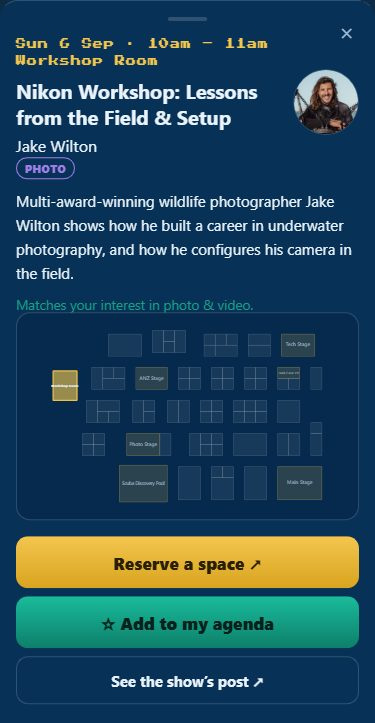
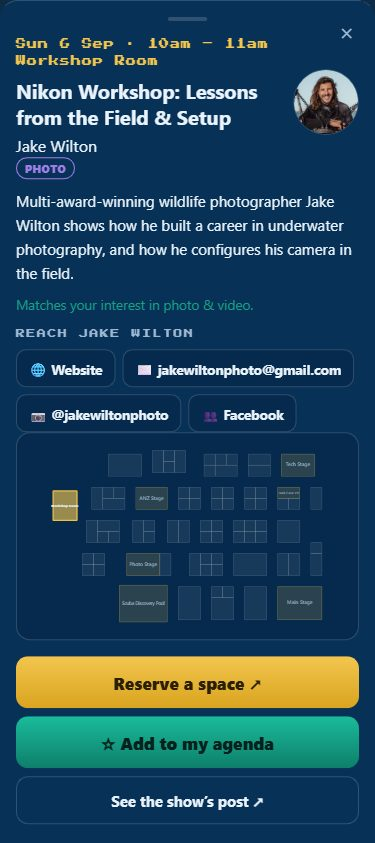
Bring the brief up to date with the app
The countdown runs now rather than waiting for show day, preview mode is
offered to every visitor at 300x rather than pitched as an organiser tool,
and sessions carry the speaker's own contacts — which the show website does
not publish.

My Day, preview mode and the session sheet recaptured from the current app.

diff --git a/planner-brief.html b/planner-brief.html
@@ -106,7 +106,7 @@
     <div class="step"><span class="n">3</span><h3>Star your stands</h3>
       <p>Same filter on the floor, and they light up on the plan.</p></div>
     <div class="step"><span class="n">4</span><h3>Walk the day</h3>
-      <p>My Day counts down to the next talk and says which room.</p></div>
+      <p>The countdown to your first talk is already running.</p></div>
   </div>
 
   <div class="note"><p><b>Why now:</b> the value is in visitors planning <i>before</i> they
@@ -169,8 +169,8 @@
 <section class="slide">
   <p class="no">Slide 4 &middot; Inside a session</p>
   <div class="split">
-    <figure class="shot"><img src="brief-shots/04-session-detail.jpg" alt="Session detail with description, floorplan, Reserve a space and See the show's post">
-      <figcaption>Jake Wilton&rsquo;s Nikon workshop &mdash; a session that needs booking.</figcaption></figure>
+    <figure class="shot"><img src="brief-shots/04-session-detail.jpg" alt="Session detail with description, speaker contact buttons, floorplan, Reserve a space and See the show's post">
+      <figcaption>Description, speaker contacts, the room, the booking link.</figcaption></figure>
     <div>
       <h2>Description, the show&rsquo;s own post, and the booking link</h2>
       <p class="lead">Tapping a talk opens everything a visitor needs to commit to it.</p>
@@ -183,7 +183,17 @@
         <li><b>Reserve a space</b> &mdash; where a session needs booking (the Nikon and macro
           workshops, the Discovery Pool try-dives) the Eventbrite / Appointy link is right
           there, and the row is flagged <b>BOOKING NEEDED</b> in the list</li>
+        <li><b>Reach the speaker</b> &mdash; their own website, professional email and public
+          accounts, on 45 of the 50 sessions</li>
       </ul>
+      <p>The speaker contacts are worth calling out, because <b>the show website does not carry
+        them</b>. A visitor who wants to follow up on a talk &mdash; about a workshop, a trip, a
+        commission &mdash; currently has to go and search. Here it is one tap, and the speaker
+        gets the enquiry.</p>
+      <p>Individuals were held to a stricter line than companies: professional channels only, no
+        personal mobiles or private addresses, nothing guessed from a domain. Where a speaker
+        publishes nothing of their own, the business they work through stands in and the sheet
+        says so.</p>
       <div class="note"><p>Every Instagram and booking link is the show&rsquo;s own &mdash; the
         planner sends traffic to you, it doesn&rsquo;t hold it.</p></div>
     </div>
@@ -238,8 +248,16 @@
   <div class="split rev">
     <div>
       <h2>The runsheet, and what they can do with it</h2>
-      <p class="lead">Everything starred, in order, across both days &mdash; with the clashes
-        counted at the top so they get resolved before the weekend, not in a corridor.</p>
+      <p class="lead">The countdown is running <b>now</b>. Not on the day &mdash; from the moment
+        a visitor stars their first talk, the top of My Day counts down to it in days, hours,
+        minutes and seconds.</p>
+      <p>That is the thing a visitor feels for the four weeks before a show, and it was the one
+        place the app used to say nothing. It also names the session, the day, the time, the
+        stage and the stand, so the wait is attached to something specific. On the day it becomes
+        the same countdown to the next talk, using the same clock and the same logic &mdash;
+        there is no separate &ldquo;show-day mode&rdquo; to switch on.</p>
+      <p>Below it sits the runsheet: everything starred, in order, across both days, with the
+        clashes counted at the top so they get resolved before the weekend, not in a corridor.</p>
       <ul>
         <li><b>Add to calendar</b> &mdash; downloads a calendar file; every talk lands in their
           phone&rsquo;s own calendar with its room, so the alerts come from the device they
@@ -252,29 +270,31 @@
       <p>Below the buttons, <b>&ldquo;where your day happens&rdquo;</b> maps the whole day onto
         the floorplan at once.</p>
     </div>
-    <figure class="shot"><img src="brief-shots/07-myday.jpg" alt="My Day tab with runsheet, calendar, PDF and share buttons, and the floorplan">
-      <figcaption>Five flagged, four overlapping &mdash; said plainly, up front.</figcaption></figure>
+    <figure class="shot"><img src="brief-shots/07-myday.jpg" alt="My Day tab showing a live countdown of four days to the first session, the preview card, the runsheet and the floorplan">
+      <figcaption>Live, today: <b>4d 02:56:08</b> until their first session.</figcaption></figure>
   </div>
 </section>
 
 <!-- ============================================================ 8 -->
 <section class="slide">
-  <p class="no">Slide 8 &middot; Demo mode</p>
+  <p class="no">Slide 8 &middot; Preview mode</p>
   <div class="split">
-    <figure class="shot"><img src="brief-shots/08-demo-countdown.jpg" alt="Preview mode banner and a live countdown to the next session with its stage and map">
-      <figcaption>Preview mode: 10am Saturday, 44 minutes to the next talk.</figcaption></figure>
+    <figure class="shot"><img src="brief-shots/08-demo-countdown.jpg" alt="Preview mode banner running at 300 times speed, with the next-session countdown, stage, stand and map">
+      <figcaption>Preview at <b>300&times;</b>: Saturday 9:35am, 1:09 to the next talk.</figcaption></figure>
     <div>
-      <h2>See the show-day experience today</h2>
-      <p class="lead">On the weekend itself, My Day turns into a countdown: <b>next up</b>, how
-        long until it starts, which stage, which stand number, and the room on the plan &mdash;
-        then &ldquo;<i>and then at 12pm&hellip;</i>&rdquo;.</p>
-      <p>Because that only exists on the day, the planner ships with a <b>preview mode</b>. Tap
-        <b>&ldquo;It&rsquo;s 10am Saturday&rdquo;</b> and the app runs as if you were standing in
-        the venue, with a clear <b>PREVIEW MODE &middot; NOT THE REAL TIME</b> banner so nobody
-        is misled. There is a speed control and an exit.</p>
-      <p>It is there for two audiences: your team, demonstrating the app to exhibitors and press
-        without waiting for September &mdash; and visitors, who see what the app will do for them
-        and so bother to build the agenda in the first place.</p>
+      <h2>Walk the whole weekend before it happens</h2>
+      <p class="lead">Anyone can jump the clock forward. <b>Sat 9:30am</b> or <b>Sun 9:30am</b>,
+        one tap, straight from My Day &mdash; this is a visitor feature, not an organiser tool.</p>
+      <p>The app then runs exactly as it will in the hall: <b>next up</b>, the countdown, the
+        stage, the stand number, the room lit on the plan, and &ldquo;<i>then at 12pm&hellip;</i>&rdquo;
+        underneath. A gold <b>PREVIEW MODE</b> banner carries the simulated clock, so nobody
+        mistakes it for the real time, and <b>Exit</b> returns to the live countdown.</p>
+      <p>It runs at <b>300&times;</b> by default: a whole show day passes in about two minutes,
+        so a visitor can watch their agenda play out talk by talk instead of staring at a
+        countdown that barely moves. Dropping to <b>1&times;</b> shows it behaving in real time.</p>
+      <p>Two things it earns. Visitors see what the app will actually do for them, so they bother
+        to build the agenda in the first place &mdash; and your team can demonstrate the show-day
+        experience to exhibitors and press today, without waiting for September.</p>
     </div>
   </div>
 </section>
@@ -395,7 +415,9 @@
     <span class="tag on">Instagram + booking links &middot; live</span>
     <span class="tag on">Exhibitors + floorplan &middot; live</span>
     <span class="tag on">Calendar &middot; PDF &middot; share &middot; live</span>
-    <span class="tag on">Countdown + preview mode &middot; live</span>
+    <span class="tag on">Live countdown &middot; running now</span>
+    <span class="tag on">Preview mode at 300&times; &middot; live</span>
+    <span class="tag on">Speaker contacts &middot; live</span>
     <span class="tag on">Ask the show &middot; live</span>
     <span class="tag soon">Organiser dashboard &middot; proposed</span>
     <span class="tag soon">Session &amp; event feedback &middot; proposed</span>
